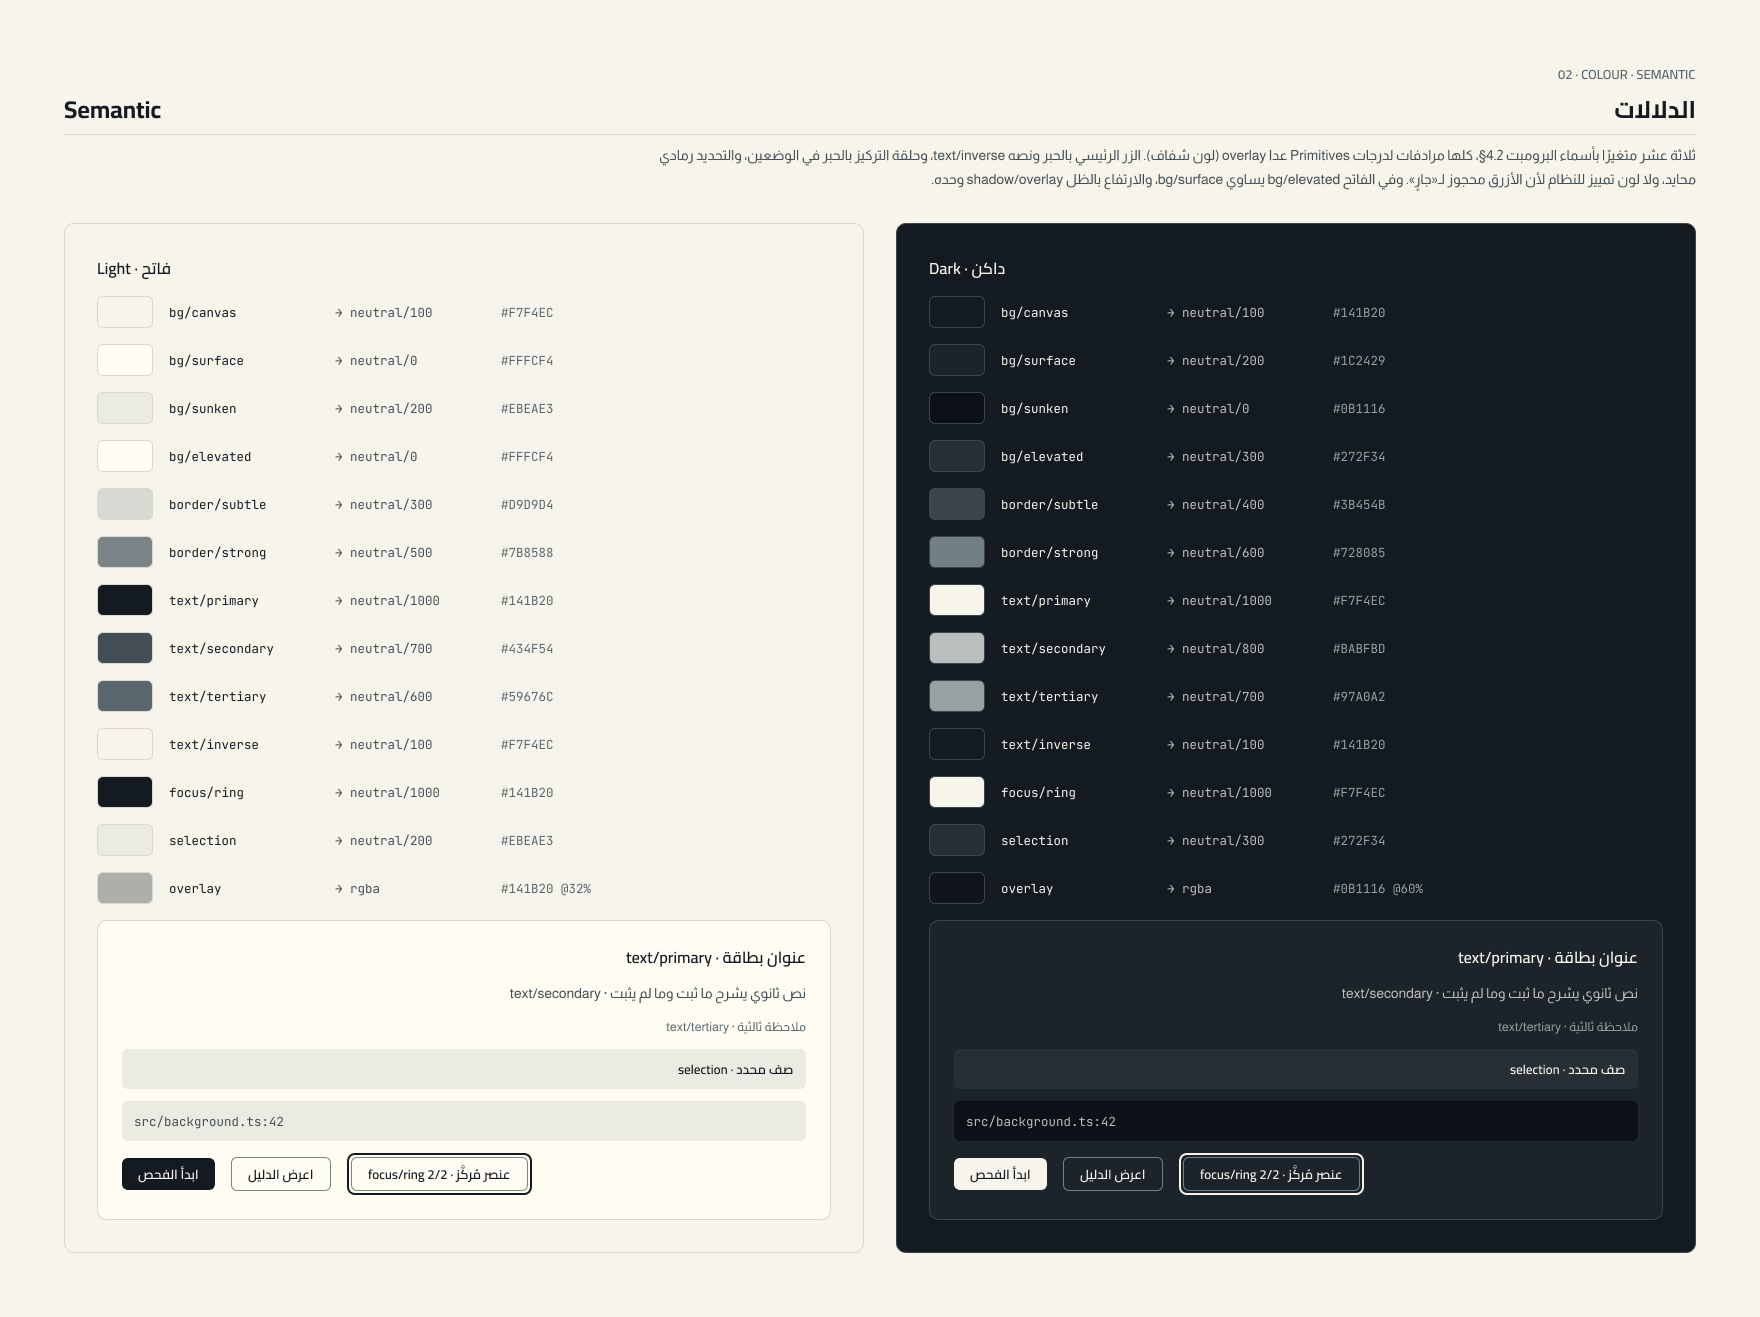
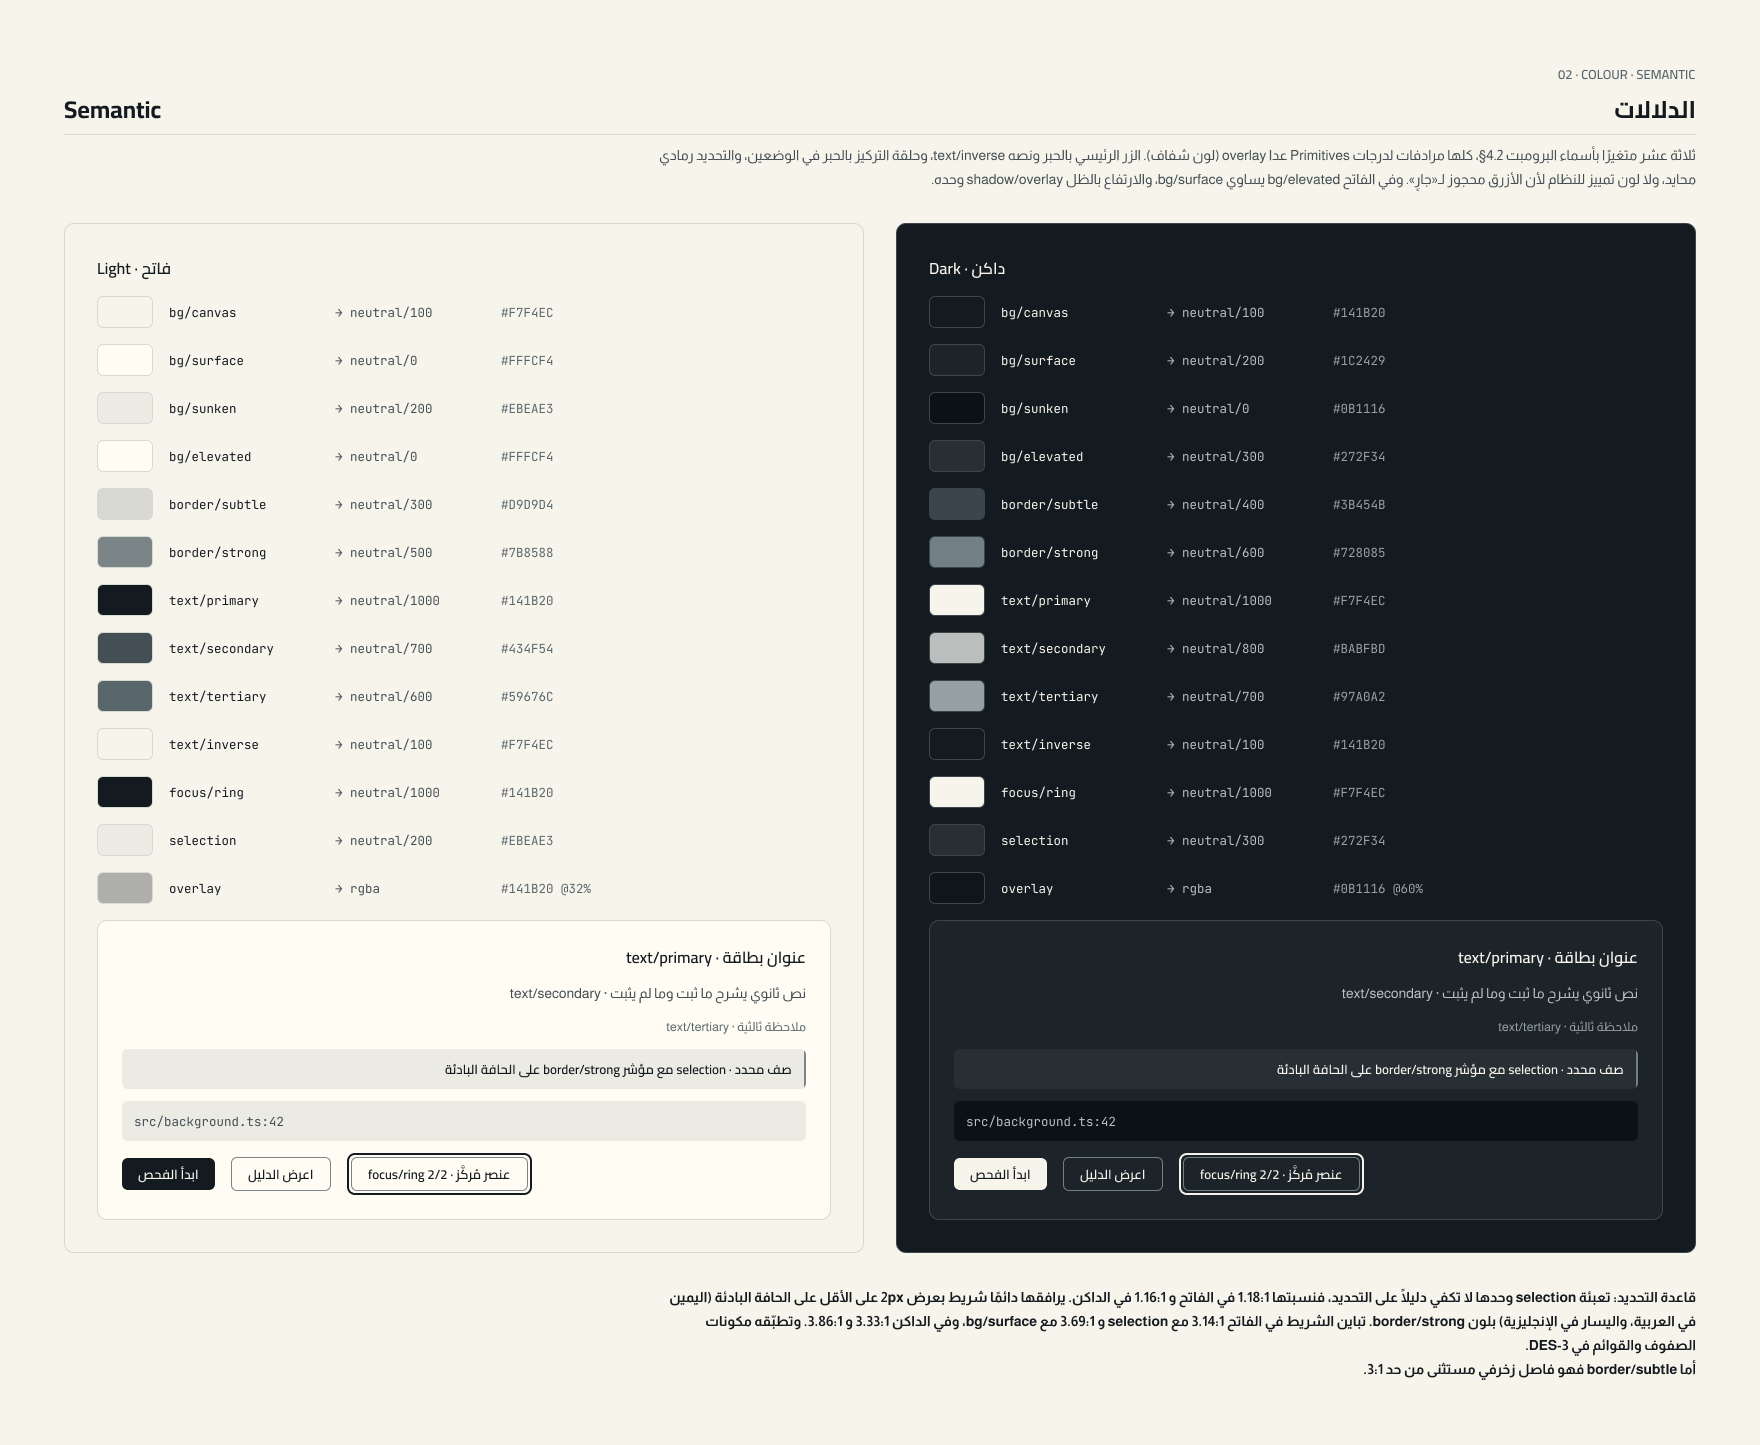
design(DES-1): تطبيق حسم G-03 وmono ومؤشر التحديد
- G-03: البديل A معتمد، وF-05 تذكره «المعتمد · G-03».
- mono: JetBrains Mono بديل عرض في Figma وحده، والشيفرة بخط النظام (SF Mono ثم Menlo)، في وصف النمط وF-06.
- التباين: border/subtle مستثنى، وselection يرافقه شريط border/strong بعرض 2px على الحافة البادئة؛ ثنائيتا المؤشر في tokens.mjs وcontrast.md وF-04 (204/204، و102/102 لكل وضع في Figma)، والقاعدة ومثالها في F-02.
- إعادة تصدير F-02 وF-04 وF-05 وF-06.

diff --git a/docs/design/DES-1/contrast.md b/docs/design/DES-1/contrast.md
@@ -6,8 +6,8 @@
 
 | البديل | الثنائيات | ناجحة | أدنى ΔE2000 عن العُرف `#A33D2F` |
 |---|---|---|---|
-| A — الهوية | 202 | 202 | 10.14 (`red/400` dark) |
-| B — البرومبت | 202 | 202 | 10.14 (`red/400` dark) |
+| A — الهوية | 204 | 204 | 10.14 (`red/400` dark) |
+| B — البرومبت | 204 | 204 | 10.14 (`red/400` dark) |
 
 حد القرب من لون العُرف: ΔE2000 ≥ 10 لكل متغير واجهة في الوضعين (D-49).
 
@@ -58,6 +58,7 @@
 | light | حد وتركيز | `focus/ring` #141B20 | `bg/sunken` #EBEAE3 | 14.42:1 | 3:1 | نجح |
 | light | حد وتركيز | `focus/ring` #141B20 | `bg/elevated` #FFFCF4 | 16.96:1 | 3:1 | نجح |
 | light | حد وتركيز | `focus/ring` #141B20 | `selection` #EBEAE3 | 14.42:1 | 3:1 | نجح |
+| light | حد وتركيز | `border/strong` #7B8588 | `selection (مؤشر التحديد)` #EBEAE3 | 3.14:1 | 3:1 | نجح |
 | light | حالة | `result/passed/fg` #025D35 | `result/passed/bg` #EDF6F0 | 7.27:1 | 4.5:1 | نجح |
 | light | حالة | `result/passed/icon` #388F60 | `result/passed/bg` #EDF6F0 | 3.62:1 | 3:1 | نجح |
 | light | حالة | `result/passed/icon` #388F60 | `bg/surface` #FFFCF4 | 3.89:1 | 3:1 | نجح |
@@ -159,6 +160,7 @@
 | dark | حد وتركيز | `focus/ring` #F7F4EC | `bg/sunken` #0B1116 | 17.28:1 | 3:1 | نجح |
 | dark | حد وتركيز | `focus/ring` #F7F4EC | `bg/elevated` #272F34 | 12.39:1 | 3:1 | نجح |
 | dark | حد وتركيز | `focus/ring` #F7F4EC | `selection` #272F34 | 12.39:1 | 3:1 | نجح |
+| dark | حد وتركيز | `border/strong` #728085 | `selection (مؤشر التحديد)` #272F34 | 3.33:1 | 3:1 | نجح |
 | dark | حالة | `result/passed/fg` #A6E5C1 | `result/passed/bg` #162D21 | 10.20:1 | 4.5:1 | نجح |
 | dark | حالة | `result/passed/icon` #3FB87F | `result/passed/bg` #162D21 | 5.85:1 | 3:1 | نجح |
 | dark | حالة | `result/passed/icon` #3FB87F | `bg/surface` #1C2429 | 6.28:1 | 3:1 | نجح |
@@ -238,6 +240,8 @@
 
 ### معلوماتي (غير ملزم، D-DES1-03)
 
+border/subtle فاصل زخرفي مستثنى من حد 3:1. وتعبئة selection وحدها لا تكفي دليلًا على التحديد، فيرافقها دائمًا شريط بعرض 2px على الحافة البادئة بلون border/strong، وثنائيته مع selection ومع bg/surface ملزمة في جدول الثنائيات أعلاه.
+
 | الوضع | الثنائية | النسبة |
 |---|---|---|
 | light | border/subtle ↔ bg/surface | 1.38:1 |
@@ -292,6 +296,7 @@
 | light | حد وتركيز | `focus/ring` #14161A | `bg/sunken` #EAE9E6 | 14.92:1 | 3:1 | نجح |
 | light | حد وتركيز | `focus/ring` #14161A | `bg/elevated` #FEFCF7 | 17.67:1 | 3:1 | نجح |
 | light | حد وتركيز | `focus/ring` #14161A | `selection` #EAE9E6 | 14.92:1 | 3:1 | نجح |
+| light | حد وتركيز | `border/strong` #7D848E | `selection (مؤشر التحديد)` #EAE9E6 | 3.11:1 | 3:1 | نجح |
 | light | حالة | `result/passed/fg` #025D35 | `result/passed/bg` #EDF6F0 | 7.27:1 | 4.5:1 | نجح |
 | light | حالة | `result/passed/icon` #388F60 | `result/passed/bg` #EDF6F0 | 3.62:1 | 3:1 | نجح |
 | light | حالة | `result/passed/icon` #388F60 | `bg/surface` #FEFCF7 | 3.89:1 | 3:1 | نجح |
@@ -393,6 +398,7 @@
 | dark | حد وتركيز | `focus/ring` #F3F1EC | `bg/sunken` #0F1114 | 16.75:1 | 3:1 | نجح |
 | dark | حد وتركيز | `focus/ring` #F3F1EC | `bg/elevated` #2B2E34 | 12.06:1 | 3:1 | نجح |
 | dark | حد وتركيز | `focus/ring` #F3F1EC | `selection` #2B2E34 | 12.06:1 | 3:1 | نجح |
+| dark | حد وتركيز | `border/strong` #767E8A | `selection (مؤشر التحديد)` #2B2E34 | 3.32:1 | 3:1 | نجح |
 | dark | حالة | `result/passed/fg` #A6E5C1 | `result/passed/bg` #162D21 | 10.20:1 | 4.5:1 | نجح |
 | dark | حالة | `result/passed/icon` #3FB87F | `result/passed/bg` #162D21 | 5.85:1 | 3:1 | نجح |
 | dark | حالة | `result/passed/icon` #3FB87F | `bg/surface` #202328 | 6.28:1 | 3:1 | نجح |
@@ -471,6 +477,8 @@
 | dark | حالة | `tag/model-claim/border` #A68CE6 | `bg/surface` #202328 | 5.64:1 | 3:1 | نجح |
 
 ### معلوماتي (غير ملزم، D-DES1-03)
+
+border/subtle فاصل زخرفي مستثنى من حد 3:1. وتعبئة selection وحدها لا تكفي دليلًا على التحديد، فيرافقها دائمًا شريط بعرض 2px على الحافة البادئة بلون border/strong، وثنائيته مع selection ومع bg/surface ملزمة في جدول الثنائيات أعلاه.
 
 | الوضع | الثنائية | النسبة |
 |---|---|---|
